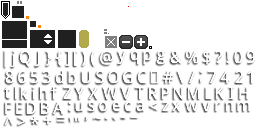
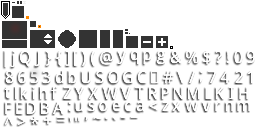
Added experimental android controls and a very large font.

Changed region(s): [[0.2188, 0.2188, 0.6875, 0.4062], [0.0312, 0.1875, 0.0938, 0.2812], [0.0625, 0.0, 0.0938, 0.0312]]

diff --git a/core/src/main/java/eu32k/neonshooter/core/ui/InGameScreen.java b/core/src/main/java/eu32k/neonshooter/core/ui/InGameScreen.java
@@ -9,6 +9,8 @@ import com.badlogic.gdx.physics.box2d.Box2DDebugRenderer;
 import com.badlogic.gdx.physics.box2d.World;
 import com.badlogic.gdx.scenes.scene2d.Stage;
 import com.badlogic.gdx.scenes.scene2d.ui.Label;
+import com.badlogic.gdx.scenes.scene2d.ui.Table;
+import com.badlogic.gdx.scenes.scene2d.ui.Touchpad;
 
 import eu32k.gdx.artemis.base.managers.GroupManager;
 import eu32k.gdx.artemis.extension.ExtendedWorld;
@@ -22,7 +24,10 @@ public class InGameScreen implements Screen {
 
    private Stage gameStage;
    private Stage hudStage;
+
    private Label fpsLabel;
+   private Touchpad padLeft;
+   private Touchpad padRight;
 
    private World box2dWorld;
    private ExtendedWorld artemisWorld;
@@ -33,9 +38,8 @@ public class InGameScreen implements Screen {
    public void show() {
       if (gameStage == null) {
          gameStage = new Stage(Neon.VIRTUAL_WIDTH, Neon.VIRTUAL_HEIGHT, true);
-         hudStage = new Stage();
-         fpsLabel = new Label(" ", Neon.assets.skin);
-         hudStage.addActor(fpsLabel);
+
+         createHud();
 
          box2dWorld = new World(new Vector2(0, 0), true);
          artemisWorld = new ExtendedWorld(box2dWorld, gameStage);
@@ -108,19 +112,44 @@ public class InGameScreen implements Screen {
       Gdx.input.setInputProcessor(hudStage);
    }
 
+   private void createHud() {
+      hudStage = new Stage();
+
+      Table table = new Table(Neon.assets.skin);
+      table.setFillParent(true);
+      // table.debug();
+
+      fpsLabel = new Label("", Neon.assets.skin);
+      fpsLabel.setFontScale(0.5f);
+
+      padLeft = new Touchpad(20.0f, Neon.assets.skin);
+      padRight = new Touchpad(20.0f, Neon.assets.skin);
+
+      table.add(fpsLabel).expand().top().left().pad(10);
+      table.row();
+      table.add(padLeft).prefWidth(150).prefHeight(150).expand().bottom().left().pad(10);
+      table.add(padRight).prefWidth(150).prefHeight(150).expand().bottom().right().pad(10);
+
+      hudStage.addActor(table);
+   }
+
    @Override
    public void render(float delta) {
+      Neon.controls.padLeft.set(padLeft.getKnobPercentX(), padLeft.getKnobPercentY());
+      Neon.controls.padRight.set(padRight.getKnobPercentX(), padRight.getKnobPercentY());
+
       gameStage.act(delta);
       hudStage.act(delta);
 
       artemisWorld.setDelta(delta);
       artemisWorld.process();
 
-      fpsLabel.setText(" FPS: " + Gdx.graphics.getFramesPerSecond());
+      fpsLabel.setText("FPS: " + Gdx.graphics.getFramesPerSecond());
 
       gameStage.draw();
       hudStage.draw();
 
+      // Table.drawDebug(hudStage);
       // debugRenderer.render(box2dWorld, gameStage.getCamera().combined);
    }
 

diff --git a/core/src/main/java/eu32k/neonshooter/core/input/Controls.java b/core/src/main/java/eu32k/neonshooter/core/input/Controls.java
@@ -3,6 +3,7 @@ package eu32k.neonshooter.core.input;
 import com.badlogic.gdx.Gdx;
 import com.badlogic.gdx.Input;
 import com.badlogic.gdx.Input.Buttons;
+import com.badlogic.gdx.math.Vector2;
 
 public class Controls {
 
@@ -10,6 +11,9 @@ public class Controls {
    public boolean down = false;
    public boolean left = false;
    public boolean right = false;
+
+   public Vector2 padLeft = new Vector2();
+   public Vector2 padRight = new Vector2();
 
    public boolean mousePressed = false;
 

diff --git a/core/src/main/java/eu32k/neonshooter/core/entitySystem/system/ControlSystem.java b/core/src/main/java/eu32k/neonshooter/core/entitySystem/system/ControlSystem.java
@@ -45,6 +45,11 @@ public class ControlSystem extends EntityProcessingSystem {
       }
       velocity.nor().scl(2.5f);
 
+      if (Neon.controls.padLeft.len() > 0) {
+         velocity.set(Neon.controls.padLeft);
+         velocity.scl(2.5f);
+      }
+
       if (velocity.len2() > 0.01f) {
          physicsComponent.body.setLinearVelocity(velocity);
          physicsComponent.body.setTransform(physicsComponent.body.getPosition(), velocity.angle() * MathUtils.degRad);

diff --git a/html/src/main/java/eu32k/neonshooter/html/NeonshooterHtml.java b/html/src/main/java/eu32k/neonshooter/html/NeonshooterHtml.java
@@ -16,7 +16,7 @@ public class NeonshooterHtml extends GwtApplication {
    public GwtApplicationConfiguration getConfig() {
       GwtApplicationConfiguration config = new GwtApplicationConfiguration(1024, 576);
       config.antialiasing = true;
-      config.fps = 30;
+      config.fps = 60;
       return config;
    }
 }

diff --git a/core/src/main/java/eu32k/neonshooter/core/config/Config.java b/core/src/main/java/eu32k/neonshooter/core/config/Config.java
@@ -4,6 +4,8 @@ public class Config {
 
    public int resolutionX;
    public int resolutionY;
+   public float gameSpeed = 1.0f;
+   public float delta = 0.0f;
 
    public void create() {
 
